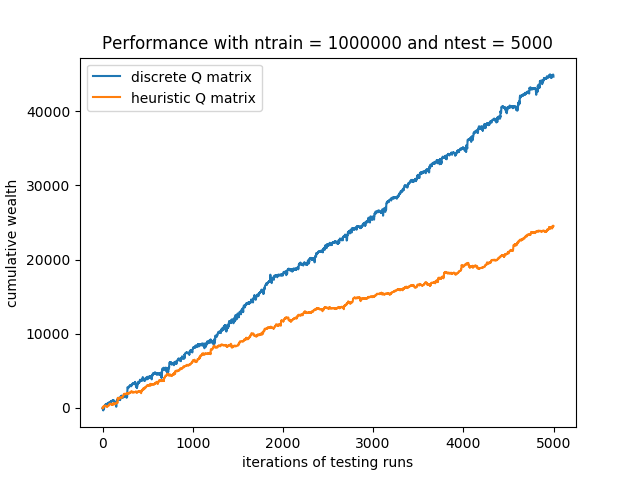
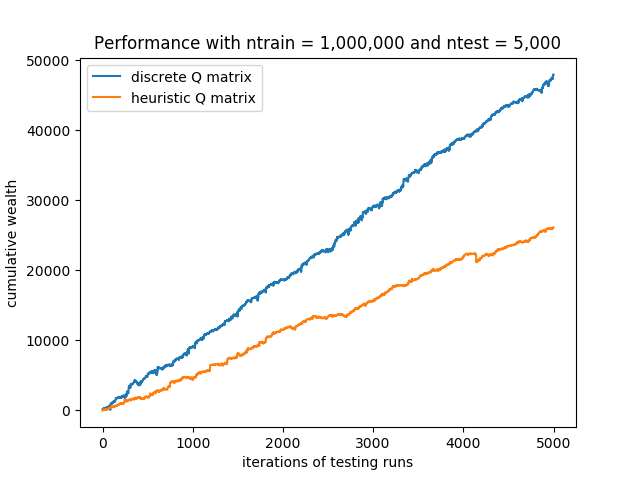
save

diff --git a/source/main.py b/source/main.py
@@ -16,7 +16,7 @@ def graph_performance(wealths_list, agent_names, ntrain):
     plt.legend(loc='best')
     plt.xlabel('iterations of testing runs')
     plt.ylabel('cumulative wealth')
-    plt.savefig('../figs/newfig.png')
+    plt.savefig('../figs/compare_1mil_train.png')
     pass
 
 def make_exchange():
@@ -28,7 +28,7 @@ def make_exchange():
 
 def run_heuristic_qmatrix_stock_trading():
     actions, exchange = make_exchange()
-    util, ntrain, ntest = 1e-3, int(1e7), 5000
+    util, ntrain, ntest = 1e-3, int(1e6), 5000
     
     # for simple QMatrix
     learner = QMatrix(actions, epsilon=0.1, learning_rate=0.5, discount_factor=0.999)
